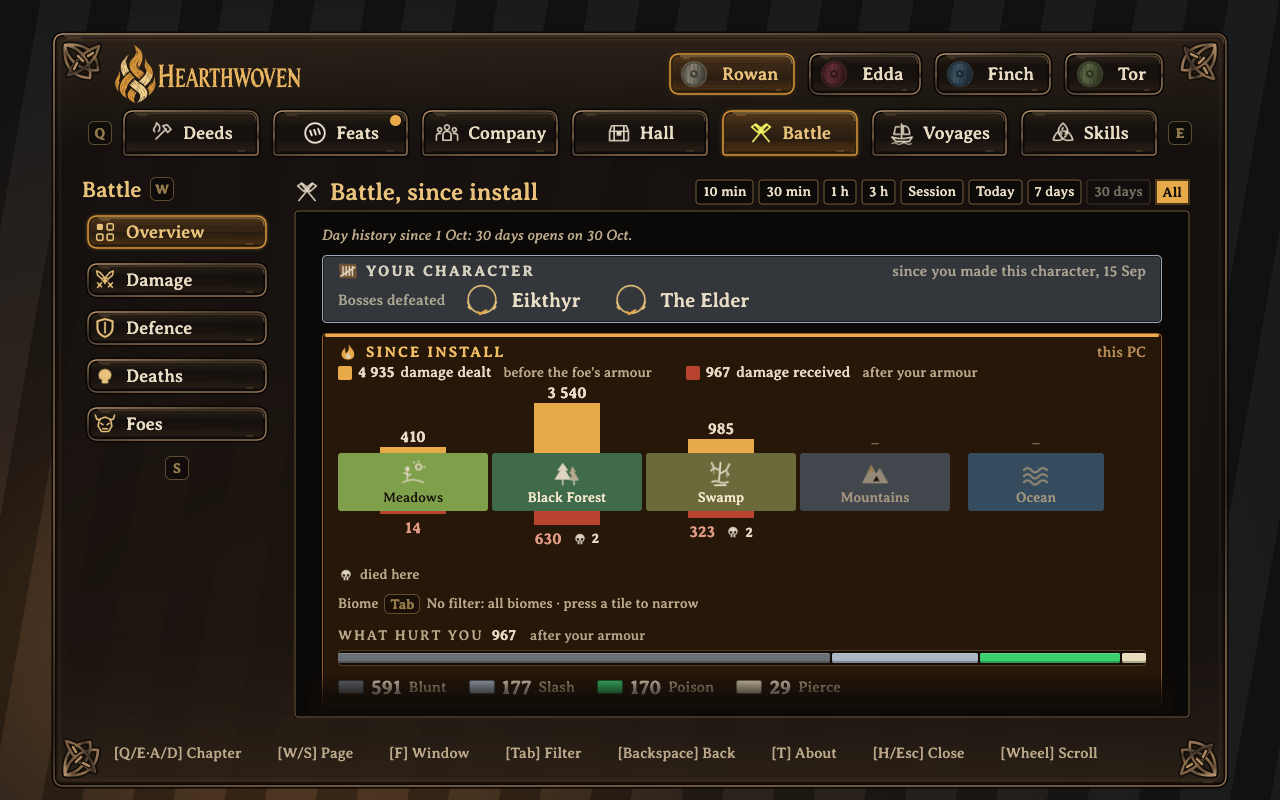
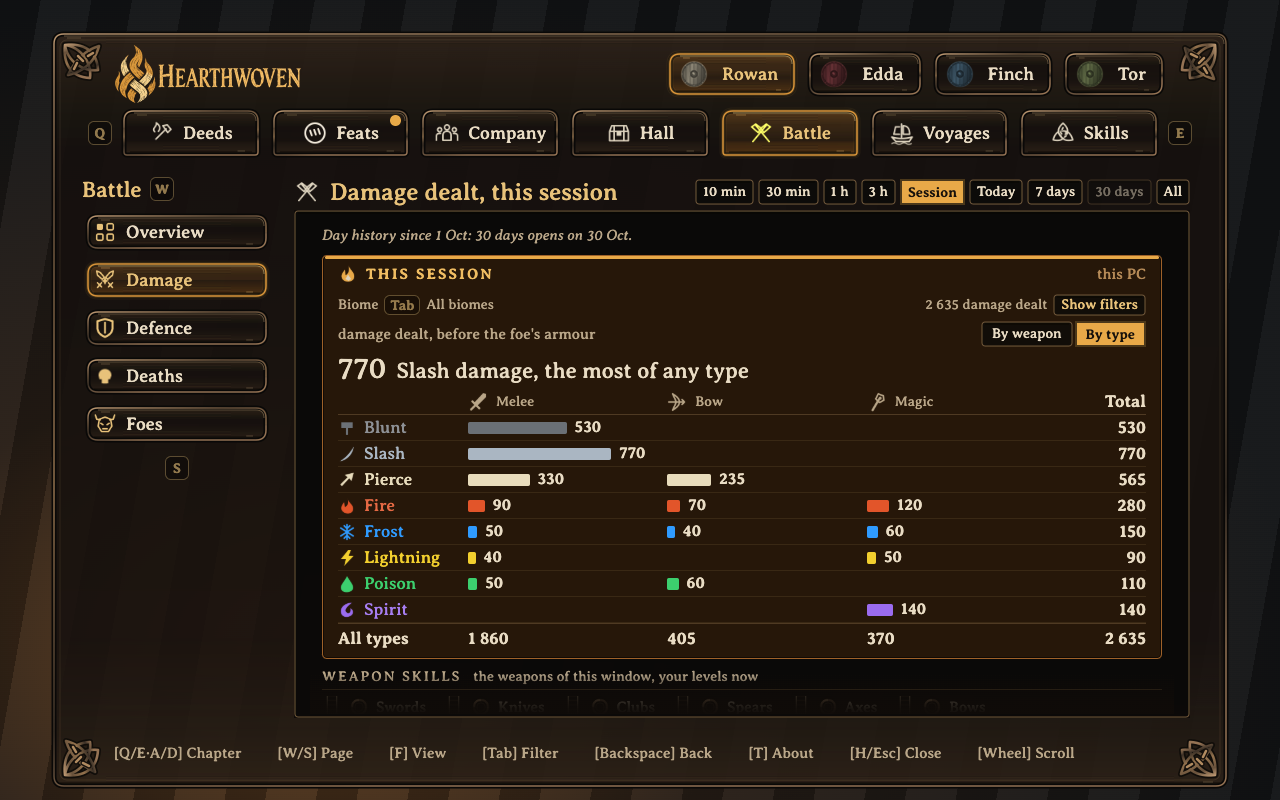
README: why, how, what; Battle section
Exported from the valheim repo, integrate-06 at 2d3a66c.

diff --git a/README.md b/README.md
@@ -2,78 +2,104 @@
 
 # Everyone plays their own part
 
-One player mines iron. Another sails it home. Someone else cooks for the next trip. Hearthwoven makes those parts visible: a book of deeds for your whole group. Press **H** to see who cooked for whom, who carried the ore home and what each of you added.
+Hearthwoven is a Valheim mod that adds a book of deeds to the game. Press **H** to open it: what you did, what your friends did and who it helped.
 
-In single player, the book shows your own deeds.
-
-[Installation](#installation) · [Reference](#reference) · [Feedback](#feedback)
-
-[![The book with a group: deeds, feats, Fireside, Together and Sailing](https://raw.githubusercontent.com/joostliebregts/Hearthwoven/main/docs/screenshots/g1-group.gif)](https://raw.githubusercontent.com/joostliebregts/Hearthwoven/main/docs/screenshots/g1-group.gif)
+[![The book with a group: deeds, feats, who helped whom and each player's share](https://raw.githubusercontent.com/joostliebregts/Hearthwoven/main/docs/screenshots/g1-group.gif)](https://raw.githubusercontent.com/joostliebregts/Hearthwoven/main/docs/screenshots/g1-group.gif)
 
 *Sample data. Rowan, Edda, Finch and Tor are fictional players.*
 
-## Around the hearth
+[Why](#why) · [How it works](#how-it-works) · [What is in the book](#what-is-in-the-book) · [Installation](#installation) · [Reference](#reference)
 
-See who enjoyed whose cooking and who put whose gear to good use. Company > Fireside shows these connections around the hearth. Each count sits on its own thread, from the player who gave to the player who received.
+## Why
 
-[![Company: food and gear shared between players](https://raw.githubusercontent.com/joostliebregts/Hearthwoven/main/docs/screenshots/s6-fireside.png)](https://raw.githubusercontent.com/joostliebregts/Hearthwoven/main/docs/screenshots/s6-fireside.png)
+In a group, everyone finds their own part. One player mines iron. Another sails it home. Someone else cooks for the next trip, and someone keeps the smelters fed. Valheim shows none of this. Once the trip is over, the quiet work is gone, and only the boss kills are remembered.
 
-*Sample data. Rowan, Edda, Finch and Tor are fictional players. Select any image to open it at full size.*
+Hearthwoven keeps the record, so every way of playing is seen. There is no ranking and no winner: just who did what, and who it helped.
 
-## Each player's share
+## How it works
 
-Company > Together puts the group side by side: wood and ore brought in, pieces built, dishes cooked, damage dealt, distance sailed and cargo carried. No ranking, just who did what.
+- **It counts as you play.** Trees felled, ore carried home, dishes cooked, pieces built, damage dealt, distance sailed. Valheim's own counters for your character are shown too, so the book also covers your play from before you installed it.
+- **It shares through the server.** On a server with Hearthwoven, players who have it can open each other's books. Players without it can still join and play.
+- **It only reads.** Hearthwoven does not change the world or other mods. Items and pieces from other mods appear with their own names and icons.
 
-[![Company: each player's share of the cargo](https://raw.githubusercontent.com/joostliebregts/Hearthwoven/main/docs/screenshots/s5-together-cargo.png)](https://raw.githubusercontent.com/joostliebregts/Hearthwoven/main/docs/screenshots/s5-together-cargo.png)
+In single player, the book shows your own deeds.
+
+## What is in the book
+
+### Who helped whom
+
+Who enjoyed whose cooking, and who put whose gear to good use. Each thread runs from the player who gave to the player who received. (Company > Fireside)
+
+[![Food and gear shared between players](https://raw.githubusercontent.com/joostliebregts/Hearthwoven/main/docs/screenshots/s6-fireside.png)](https://raw.githubusercontent.com/joostliebregts/Hearthwoven/main/docs/screenshots/s6-fireside.png)
+
+*Sample data. Select any image to open it at full size.*
+
+### Each player's share
+
+The group side by side: wood and ore brought in, pieces built, dishes cooked, damage dealt, distance sailed and cargo carried. (Company > Together)
+
+[![Each player's share of the cargo carried](https://raw.githubusercontent.com/joostliebregts/Hearthwoven/main/docs/screenshots/s5-together-cargo.png)](https://raw.githubusercontent.com/joostliebregts/Hearthwoven/main/docs/screenshots/s5-together-cargo.png)
 
 *Sample data, with Cargo carried chosen.*
 
-Cargo is measured in **item-km**: one item carried one kilometre while you steer a ship or pull a cart. The distance is measured in straight sections, so winding routes can be undercounted. With Hearthwoven 0.6.0 or newer on the server, Voyages > Cargo also shows what you loaded into a ship or cart and what you unloaded somewhere else. Chests do not count.
+### Your own deeds
 
-## Your part in it
+Your deeds are grouped under titles such as Hearth Cook, Hallwright and Woodcutter, one for each way of playing. Open one to see what went into it.
 
-Your own deeds sit under titles such as Hearth Cook, Hallwright and Woodcutter. The overview also shows what you are known for: up to three of your feats. Open a deed to see what went into its total.
-
-[![Deeds: titles for different playstyles](https://raw.githubusercontent.com/joostliebregts/Hearthwoven/main/docs/screenshots/s1-deeds-overview.png)](https://raw.githubusercontent.com/joostliebregts/Hearthwoven/main/docs/screenshots/s1-deeds-overview.png)
+[![Deeds: titles for different ways of playing](https://raw.githubusercontent.com/joostliebregts/Hearthwoven/main/docs/screenshots/s1-deeds-overview.png)](https://raw.githubusercontent.com/joostliebregts/Hearthwoven/main/docs/screenshots/s1-deeds-overview.png)
 
 *Deeds overview.*
-
-## Filter what you made
-
-On the Crafting and Building pages, filter by kind, by the hammer's tab and by material. Combine filters to answer a question, such as how much of the hall is core wood, and the bars and counts follow.
-
-[![Filters on the Crafting page](https://raw.githubusercontent.com/joostliebregts/Hearthwoven/main/docs/screenshots/g3a-crafting.gif)](https://raw.githubusercontent.com/joostliebregts/Hearthwoven/main/docs/screenshots/g3a-crafting.gif)
-
-*Crafting: filter by kind and material.*
-
-[![Filters on the Building page](https://raw.githubusercontent.com/joostliebregts/Hearthwoven/main/docs/screenshots/g3b-building.gif)](https://raw.githubusercontent.com/joostliebregts/Hearthwoven/main/docs/screenshots/g3b-building.gif)
-
-*Building: filter by the hammer's tab and material.*
-
-## Look closer
-
-- **Cooking:** the dishes you cooked, where you cooked them and who enjoyed your food.
-- **Building and crafting:** what you made, with filters for type and material.
-- **Woodcutting and mining:** trees felled, axe and pickaxe hits, and the wood, stone and ore you brought in.
-- **Taming:** young born in your care, young born near you and the animals you led.
-- **Battle:** damage dealt and received, by biome, foe and damage type. See your blocks, parries and what killed you.
-- **Voyages:** distance sailed and on foot, who sailed with you and the cargo you carried.
-- **Hall:** the shared household, including trader purchases and items put into smelters.
-
-Select a biome or a time period to see more detail. Time periods run from the last 10 minutes to everything since install.
 
 [![One player's own book, page by page](https://raw.githubusercontent.com/joostliebregts/Hearthwoven/main/docs/screenshots/g2-own-book.gif)](https://raw.githubusercontent.com/joostliebregts/Hearthwoven/main/docs/screenshots/g2-own-book.gif)
 
 *A real character's book, from cooking to voyages.*
 
-[![Battle: damage dealt and received in each biome](https://raw.githubusercontent.com/joostliebregts/Hearthwoven/main/docs/screenshots/s4-battle.png)](https://raw.githubusercontent.com/joostliebregts/Hearthwoven/main/docs/screenshots/s4-battle.png)
+### Battle
 
-*Battle overview, since install, by biome.*
+Every fight since you installed Hearthwoven, counted: the damage you dealt and received, in each biome, against each foe and by damage type. See how many blows you blocked or parried, what hurt you most after your armour, and the last 30 seconds before each death. The Foes page shows what each foe takes more, less or no damage from, so you know what to bring next time. Choose a time period, from the last 10 minutes to everything since install, to look at one fight or a whole trip. (Battle)
+
+[![Battle: damage dealt by type and weapon](https://raw.githubusercontent.com/joostliebregts/Hearthwoven/main/docs/screenshots/s4-battle.png)](https://raw.githubusercontent.com/joostliebregts/Hearthwoven/main/docs/screenshots/s4-battle.png)
+
+*Damage dealt by type and weapon. Sample data.*
+
+[![Battle: what each foe takes more, less or no damage from](https://raw.githubusercontent.com/joostliebregts/Hearthwoven/main/docs/screenshots/s7-battle-foes.png)](https://raw.githubusercontent.com/joostliebregts/Hearthwoven/main/docs/screenshots/s7-battle-foes.png)
+
+*Foes: what each foe takes more, less or no damage from. Sample data.*
+
+### Everything you made
+
+Every piece of gear you crafted and every piece you built, counted and grouped by kind and material, with the game's own icons. Want to know how much of the hall is core wood, or how many weapons you made? Choose a material or a kind, and the bars and counts follow.
+
+[![The Crafting page: gear by kind and material](https://raw.githubusercontent.com/joostliebregts/Hearthwoven/main/docs/screenshots/g3a-crafting.gif)](https://raw.githubusercontent.com/joostliebregts/Hearthwoven/main/docs/screenshots/g3a-crafting.gif)
+
+*Crafting: what you made, by kind and material.*
+
+[![The Building page: pieces by the hammer's tab and material](https://raw.githubusercontent.com/joostliebregts/Hearthwoven/main/docs/screenshots/g3b-building.gif)](https://raw.githubusercontent.com/joostliebregts/Hearthwoven/main/docs/screenshots/g3b-building.gif)
+
+*Building: what you built, by the hammer's tab and material.*
+
+### Feats
+
+A feat is a moment worth telling, earned by doing it: steering a ship 2 km with a heavy load of ore, holding blows on your shield beside a friend, having your food enjoyed by three fellow players. Some feats have bronze, silver and gold levels. **Unsung** shows the ones still ahead and why.
+
+[![Earned feats in the Feats chapter](https://raw.githubusercontent.com/joostliebregts/Hearthwoven/main/docs/screenshots/s2-feats.png)](https://raw.githubusercontent.com/joostliebregts/Hearthwoven/main/docs/screenshots/s2-feats.png)
+
+*Feats, Earned.*
+
+### And more
+
+- **Cooking:** the dishes you cooked, where you cooked them and who enjoyed your food.
+- **Woodcutting and mining:** trees felled, axe and pickaxe hits, and the wood, stone and ore you brought in.
+- **Taming:** young born in your care, young born near you and the animals you led.
+- **Voyages:** distance sailed and on foot, who sailed with you and the cargo you carried.
+- **Hall:** the shared household, including trader purchases and items put into smelters.
+
+Choose a biome or a time period to see more detail. Time periods run from the last 10 minutes to everything since install.
 
 <details>
-<summary>Feats: recognition for your deeds</summary>
+<summary>All feats, explained</summary>
 
-Feats have their own chapter. A feat recognises a specific achievement: a rule, a number and a day. Open it to see the rule, your progress and when it was first recorded.
+A feat recognises a specific achievement: a rule, a number and a day. Open it to see the rule, your progress and when it was first recorded.
 
 - **Heavy Keel:** steer a ship 2 km with a heavy load of metal or ore aboard.
 - **Shield Wall:** hold blows on your shield with a fellow player nearby.
@@ -81,13 +107,9 @@ Feats have their own chapter. A feat recognises a specific achievement: a rule, 
 - **Kept the Fires:** put ore and fuel into smelters, kilns and furnaces.
 - **Full Table:** have your food enjoyed by three fellow players who share their books.
 
-Some feats have several levels, marked bronze, silver and gold. Each level has its own target. The targets may change after the first weeks of play.
+Each level has its own target. The targets may change after the first weeks of play.
 
 **Earned** shows the feats you have. **Unsung** shows the feats still ahead, and says why each one is not earned yet. **Together** shows Iron for the Forge: the ore and metal the whole group brings home. It needs Hearthwoven 0.6.0 or newer on the server.
-
-[![Earned feats in the Feats chapter](https://raw.githubusercontent.com/joostliebregts/Hearthwoven/main/docs/screenshots/s2-feats.png)](https://raw.githubusercontent.com/joostliebregts/Hearthwoven/main/docs/screenshots/s2-feats.png)
-
-*Feats, Earned: what you've done that's worth telling*
 
 </details>
 
@@ -108,7 +130,7 @@ Install Hearthwoven with your mod manager, such as Gale or r2modman. Start the g
 
 Your own book works on any server. Hearthwoven is optional. Players without it can still join and play.
 
-**Other mods' items show too.** Hearthwoven reads the game's lists of items, building pieces, creatures and skills. Content from other mods appears with its own names and icons. Hearthwoven does not change other mods. See **Tested with other mods** under Reference for the mods we use in testing.
+See **Tested with other mods** under Reference for the mods we use in testing.
 
 ### Play with friends
 
@@ -241,6 +263,10 @@ All Battle pages, Sailing, Cargo, Woodcutting, Mining and Company > Together hav
 Other players' data comes from their own copy of Hearthwoven, shared through the server. On a fellow player's book, the time periods they do not share show greyed, with the reason.
 
 With Hearthwoven 0.6.0 or newer, the server also counts what only it can see in full: cargo loaded and unloaded, young born near you and the group's Iron for the Forge. "Born near you" means near, not bred: the game does not record who fed the animals.
+
+### Cargo
+
+Cargo is measured in **item-km**: one item carried one kilometre while you steer a ship or pull a cart. The distance is measured in straight sections, so winding routes can be undercounted. With Hearthwoven 0.6.0 or newer on the server, Voyages > Cargo also shows what you loaded into a ship or cart and what you unloaded somewhere else. Chests do not count.
 
 ### Gaps in Valheim's counters
 
